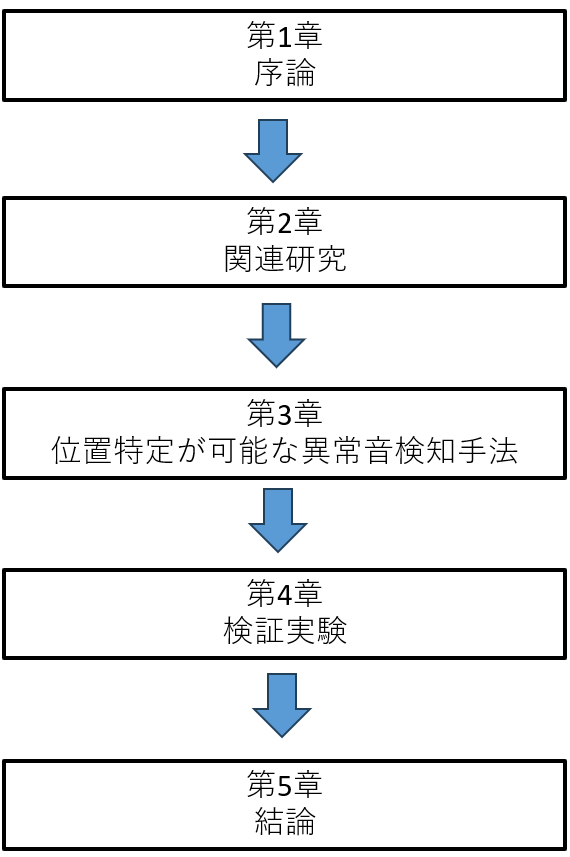
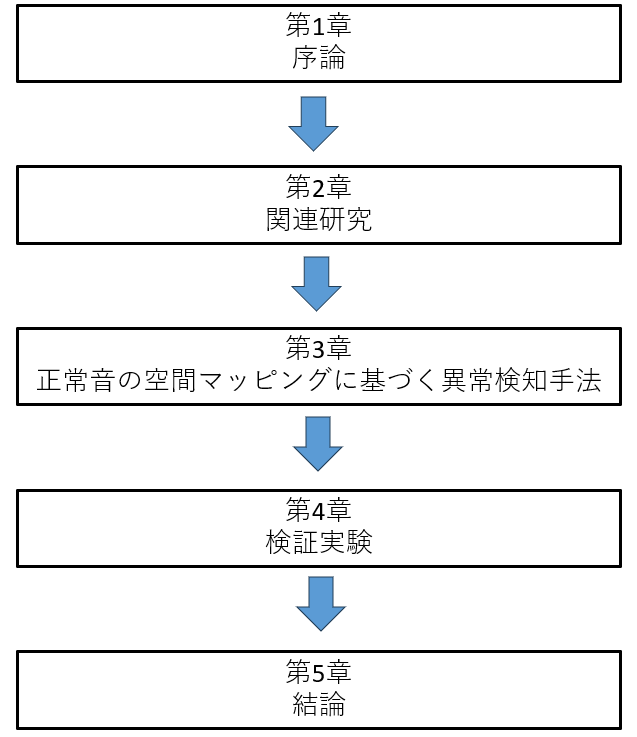
1/1 ongoing

Changed region(s): [[0.0, 0.0, 1.0, 0.9986], [0.9544, 0.6554, 1.0, 0.7802], [0.0, 0.6554, 0.0298, 0.7802]]

diff --git a/sections/chap4_sec3.tex b/sections/chap4_sec3.tex
@@ -6,21 +6,40 @@
 
 \section{屋外実験}
 \label{sec:outdoor_experiment}
-本研究では，実験室内での実験に加え，実際の石油精製施設内においても提案手法の性能を検証した．
-本節では，実験環境の概要，実験手法，データの処理方法，得られた結果，そしてそれらに基づく考察について順に述べる．
+本研究では，実験室内での評価に加え，より実環境に近い条件下で提案手法の性能を検証するため，石油精製プラント内での屋外実験を実施した．
+以下では，実験環境の概要，実験手法，データの処理方法，得られた結果，そしてそれらに基づく考察について順に述べる．
 \subsection{実験環境}
 \label{subsec:vexp_ci_environment}
-実験は，石油精製プラントの稼働エリアの一角で実施された．このエリアには，連続的に作動するポンプ類や，
+実験は，\reffig{fig:field_environment}に示す石油精製プラントの稼働エリアの一角で実施した．
+このエリアには，連続的に作動するポンプ類や定期的に圧力を放出するバルブ類など，複数の騒音源が点在している．
 定期的に圧力を放出するバルブ類が点在している．作業日当日もプラント全体が通常稼働中であり，背景騒音は実験室よりも格段に大きい環境であった．
-また，足場や配管が立体的に入り組んでおり，音の反射や回折が多方向から生じやすく，音源の定位が困難となる複雑な空間が形成されていた．
+
+\begin{figure}[t]
+  \centering
+  \includegraphics[keepaspectratio, width=1.0\linewidth]{chap4/field_environment.png}
+  \caption{屋外実験における実験環境}
+  \label{fig:field_environment}
+\end{figure}
+
 \subsection{実験方法}
 \label{subsec:vexp_ci_method}
+プラント内を走行する移動ロボットに音声収録用のマイクと信号処理装置を搭載し，走行経路上の音データを取得した．
+まず，異常音源を配置しない状態で複数回走行し，プラントが正常稼働中の音を「正常サンプル」として収集した．
+次に，異常音を模擬するため，インパクトドライバと金属棒の打撃装置をプラント内の2箇所に設置し，位置を切り替えながら追加の走行を行った．
 
-まず，異常音源を一切配置しない状態で走行を複数回行い，正常運転時の騒音環境下におけるサンプルを収集した．
-次に，異常を再現するための音源として，インパクトドライバと金属棒を定期的に打撃する装置を，プラント内の2箇所にそれぞれ配置し，
-それらの位置を切り替えながら追加の走行を行った．
-こうすることで，異なる位置で発生する異常音を検知できるかを評価すると同時に，
-機器の連続作動音（インパクトドライバ）と間欠動作音（金属棒打撃）という異なる特性を持つ異常音を検知できるかを評価した．
+\subsubsection{移動ロボットの自己位置推定}
+移動ロボットの車輪にエンコーダを取り付け，それらのエンコーダから得られる回転角度の情報を用いてオドメトリを計算した．
+具体的には，ロボットの左右の車輪の回転角度差から回転角と回転半径を求めることができ，これらの情報から微小時刻$\Delta t$におけるロボットの位置と姿勢の変化を算出することができる．
+これを$\Delta t$ごとに積算することで，ロボットの現在位置を推定した．
+
+\subsubsection{異常音の再現手法}
+異常音としては，インパクトドライバによる連続的な衝撃音と，金属棒を打ち鳴らす周期的な打撃音を用いた．
+これら2種類の音源を\reffig{fig:field_environment}に示す地点Aと地点Bに配置し，それぞれの配置を切り替えながら走行実験を実施した．
+こうすることで，連続的な衝撃音（インパクトドライバ）と間欠的な打撃音（金属棒）という異なる種類の異常を再現した．
+また，打撃音は１分間に２４０回のペースで２本の金属棒を打ち付けあうことで，異常音を再現した．
+正常時の走行を3回，異常音源が存在する状態の走行を2回実施した．\reftab{tab:abnormal_sound_jp}に各パスにおける異常音源を示す．
+このとき，プラントが通常稼働状態であるため，背景騒音にはポンプやバルブなど多種多様な音が混在している．
+
 
 \begin{table}[htbp]
   \centering
@@ -36,26 +55,18 @@
 
 \subsection{データの処理}
 \label{subsec:vexp_ci_processing}
-得られた音声信号は，実験室での評価時と同様に，まず48kHzのサンプリングレートで録音された後，前処理としてノイズ除去フィルタや正規化などの基本的な信号処理を施した．
-続いて，短時間フーリエ変換を用いてパワースペクトルを抽出したのち，メルフィルタバンクを用いてスペクトログラムに変換し，
-特徴量を抽出した．
-なお，正常走行から得られたサンプルの一部をモデルの学習に用い，残りの正常サンプルと異常サンプルをテスト用として用いた．
+取得した音声信号は，実験室での評価時と同様に48kHzのサンプリングレートで録音した．
+まず，ノイズ除去や正規化などの基本的な前処理を行い，続いて短時間フーリエ変換によってスペクトログラムを得た．
+メルフィルタバンクを用いることで周波数帯域を圧縮し，特徴量次元を削減した．
+正常走行で収集したサンプルのうち一部を学習用データとし，残りの正常サンプルと異常サンプルを用いて提案手法をテストした．
 
 \subsection{実験結果}
 \label{subsec:vexp_ci_result}
-屋外実験の結果，異常音源が設置されていない走行では，殆どのサンプルが正常音として正しく分類された．
-一方，インパクトドライバや金属棒による定期的な打撃音が発生している走行では，これらの音源が存在する一付近のサンプルにおいて，
-異常と判断される割合が顕著に増加した．
-特に，インパクトドライバのような連続した衝撃音は，その周囲一体で一貫して異常判定を引き起こす傾向が見られたのに対し，
-金属棒をたたく音は打撃が行われる時間帯のみ断続的に異常として認識された．
-
-\begin{figure}[t]
-  \centering
-  \includegraphics[keepaspectratio, width=1.0\linewidth]{chap4/field_environment.png}
-  \caption{屋外実験における実験環境}
-  \label{fig:field_environment}
-\end{figure}
-
+屋外環境での実験結果を\reffig{fig:field_normal}，\reffig{fig:field_abnormal1}，および\reffig{fig:field_abnormal}に示す．
+異常音源を設置していない走行時は，ほとんどのサンプルが正常音として正しく分類された．
+一方，インパクトドライバや金属棒打撃装置が作動している走行時は，音源付近で異常として判定されるサンプルが明確に増加した．
+インパクトドライバのように連続的な衝撃音を発する機器では，周辺エリアのサンプルが一貫して高い異常判定率を示した．
+金属棒打撃のような間欠的な音源の場合は，打撃が行われるタイミングで局所的に異常判定が発生する傾向が観察された．
 \begin{figure}[t]
   \centering
   \includegraphics[keepaspectratio, width=0.7\linewidth]{chap4/field_normal.png}
@@ -82,7 +93,18 @@
 
 \subsection{考察}
 
-屋外実験においても，提案手法が異常音の検知に有効であることが示された．
+屋外実験の結果，プラント内の大きな背景騒音下においても，提案手法が異常音を検出できることが示唆された．
+\reffig{fig:field_normal}からわかるように，異常音源を設置していない走行時は，ほとんどのフレームにおいて，正常音として正しく分類された．
+このことから，提案手法が背景騒音が非常に大きい環境においても正常音のマッピングを適切に行っていることがわかる．
+しかし，\reffig{fig:field_normal}では，正常な音を異常として判定する偽陽性が確認できる．
+この原因として移動ロボットの走行音が挙げられる．
+屋内実験では移動ロボットに凹凸の少ない地面を走行させたが，屋外実験ではアスファルトのような凹凸の大きい環境での走行となった．
+このため，ロボットの走行音が大きくなり，学習データ，テストデータ共に正常音が不安定となってしまったことが原因として考えられる．
+移動ロボットの走行音を除去することで，正常音の予測の精度向上と，偽陽性を減らしていくことが今後の課題の一つである．
 
+一方で，\reffig{fig:field_abnormal1}および\reffig{fig:field_abnormal}を確認すると，間欠的な金属棒の打撃音の付近では，局所的に異常が観測されていることが分かる．
+この結果から，金属棒の打撃と対応しているフレームのみが異常として判定されていることが考えられる．
+これは異常音のエネルギーを決定する要因に距離以外のフレームと間欠的な音という別の要因が加わってしまうことを示唆しており，異常音が間欠的な特徴を持つ場合異常の位置推定が失敗することが考えられる．
+このため，間欠的な異常音に対しても，異常の位置推定を可能とするような手法の開発が今後の課題となる．
 
 \end{document}

diff --git a/sections/chap4_sec2.tex b/sections/chap4_sec2.tex
@@ -54,17 +54,19 @@
 同様に回転機器であり，稼働中に発する音に定常的な特徴を持つギアボックスを音源として用いている．
 
 また，これらのギアボックスは傾けるとギア同士が強く擦れ合って研削音を生じるため，異常音を発生させることが可能である．
+\subsubsection{データの前処理} \label{subsec:data_preprocessing}
+マイクロホンを用いて録音したデータ内の低周波帯において，移動ロボットの振動によるものと思われるノイズが含まれていたため，
+このノイズに対応すると思われる1000Hz未満に対応する周波数帯域を除去した．
+また，メルスペクトログラムへの変換においては，突発的なノイズによる特徴量の不安定化を防ぐために，短時間フーリエ変換に用いるウィンドウ幅を一般に使用されるウィンドウ幅よりもかなり大きい65536サンプルに設定した．
+48kHzで音響信号を取得しているため，これは約1.36秒のウィンドウ幅に相当する．
 \subsection{実験手順} \label{subsec:experiment_procedure}
 
 本実験では，まずすべてのギアボックスを正常に動作させた状態でロボットを走行させ，正常サンプルを収集した．
 続いて，1つのギアボックスを傾けて異常音を発生させ，ロボットを同様に走行させることで異常サンプルを取得している
 異常状態における走行は，異常音源の位置を変えて2回行い，異常音源の位置を推定する際の精度を評価している．
 収集した音声は128の，メルフィルタバンクを用いてメルスペクトログラムに変換し，6層のデコーダ型ニューラルネットワークを用いて学習に用いた．
-
-マイクロホンを用いて録音したデータ内の低周波帯において，移動ロボットの振動によるものと思われるノイズが含まれていたため，
-このノイズに対応すると思われる1000Hz未満に対応する周波数帯域を除去した．
-このニューラルネットワークは正常時の音響パターンをモデル化し，異常音検知の閾値は手動で設定している．
 その後，異常状態のデータを用いて検出精度や音源の推定精度を評価した．
+
 
 \subsection{実験結果} \label{subsec:vexp_ref_result}
 
@@ -79,7 +81,7 @@
   \label{fig:comparison_pre_mel}
 \end{figure}
 
-この図から，それぞれの座標において正常音の特性が大方正しく予測されていることが分かる．
+この図から，周波数領域におけるピークなどの正常音の特徴が正しく予測されていることが分かる．
 また，これらのフレームごとの結果を横軸に結合していくことで，時間ごと特定の環境特性を示すメルスペクトログラムを得ることができる．
 観測された音のメルスペクトログラムと座標に基づいて予測されたメルスペクトログラムを図\ref{fig:observed_mel}と図\ref{fig:predicted_mel}に示す．
 
@@ -96,13 +98,13 @@
   \caption{予測されたメルスペクトログラム}
   \label{fig:predicted_mel}
 \end{figure}
-
+図\ref{fig:observed_mel}と図\ref{fig:predicted_mel}を比較すると，殆ど全てのフレームにおいて，強度の強いメルバンドが一致しており，このことから提案手法が正常音のマッピングを適切に行っていることが分かる．
 
 \subsubsection{異常音の検出} \label{subsubsec:anomaly_detection}
 異常状態の経路は，異常のギアボックスの配置を変え，2種類の経路にて走行した．
 正常状態の経路と，異常音源を設置した経路における予測音との差分エネルギー分布を図\ref{fig:lab_normal}，図\ref{fig:lab_abnormal2}，図\ref{fig:lab_abnormal7}に示す．
 これらの図から，異常音源を設置した付近の座標ではエネルギー値が大きくなり，異常音源から離れるにつれエネルギー値が小さくなることが分かる．
-これらの結果から，提案手法が異常音源を検出することができることが示された．
+これらの結果から，提案手法が異常音を検出することができることが示された．
 
 
 \begin{figure}[t]
@@ -139,7 +141,7 @@
       \toprule
       & 位置1 & 位置2 \\
       \midrule
-      真値 & (0.46, 0.18) & (0.78, 1.50) \\
+      真値 & (0.46, 0.18) & (1.08, 1.50) \\
       提案手法 & (0.55, 0.21) & (1.17, 1.45) \\
       誤差（m） & 0.09 & 0.10 \\
       \bottomrule
@@ -171,11 +173,12 @@
 また，\reffig{fig:lab_abnormal2}と\reffig{fig:lab_abnormal7}を比較すると，エネルギー強度のピークの大きさと，赤くプロットされている経路内お点の数が異なることが分かる．
 これは，位置1では，異常音源がＬ字の経路の曲がり角の内側に存在するため，比較的異常音源に近づくことができ，エネルギー値が大きくなっていることが分かる．
 一方で位置2では，異常音源がＬ字の経路の曲がり角の外側に存在するため，異常音源に近づくことができず，エネルギー値が小さくなっていることが分かる．
-この結果から，提案手法を用いて異常音の検知をする際には，異常と診断される可能性がある機器の配置に応じて正しく経路を設定することが重要であることが示された．
+この結果から，提案手法を用いて異常音の検知をする際には，異常と診断される可能性がある機器の配置に応じて正しく経路を設定することが重要であることが考えられる．
 
 
 最後に，異常音源の位置推定に関する結果について考察を述べる．
 \reftab{tab:sound_localization}に示すように，提案手法による異常音源の位置推定は，真値との誤差が小さく，高い精度で位置推定が行われていることが示された．
-また，\reffig{fig:lab_abnormal2}と\reffig{fig:lab_abnormal7}では，検出されたピークの異常音エネルギーと赤くプロットされている箇所において大きな差が見られたが，位置1と位置2において，異常音源の位置推定精度に大きな差は見られなかった．
-このことから，
+また，\reffig{fig:lab_abnormal2}と\reffig{fig:lab_abnormal7}では，検出されたピークの異常音エネルギーのにおいて差が見られたが，位置1と位置2において，異常音源の位置推定精度に大きな差は見られなかった．
+このことから，提案手法を用いた異常音源の位置推定は，異常音源の位置に対して頑健であることが分かった．これは最適化において異常音のエネルギーの大きさをもとに重み付けをしているため，経路を通じた異常音のエネルギーが小さい場合にも，その経路の中で相対的に大きなエネルギーを持つ点の情報を正しく利用することができているためだと考えられる．
+
 \end{document}

diff --git a/sections/chap2_sec2.tex b/sections/chap2_sec2.tex
@@ -6,8 +6,8 @@
 
 \section{異常検知手法}
 \label{sec:related_work_anomaly}
-異常検知はタスクの特徴に応じて異なるアプローチがとられる．
-本節では，異常検知のタスク設定における分類を述べ，それぞれのタスクに対する異常検知手法を紹介する．
+異常検知にはタスクの設定に応じて様々なアプローチが存在する．
+本節では，それらのアプローチの中でも代表的な手法である教師あり異常検知，教師なし異常検知，ゼロショット学習に基づく異常検知について述べる．
 \subsection{教師あり異常検知}
 異常検知の代表的なアプローチとして教師あり異常検知（Supervised AD）が挙げられる．
 教師あり異常検知では，異常か正常化のラベルが付与されたデータを用いて異常を検出するモデルを学習し，未知のデータが異常か正常かを予測する．
@@ -33,15 +33,5 @@ Jihunらはこのアプローチを採用し，画像をパッチ単位に分割
 この手法に用いられる代表的なモデルとしては，AutoencoderやGenerative Adversarial Networkなどが挙げられる．
 Zavrtanikらは画像の一部を隠して復元するアプローチを導入し，通常のオートエンコーダで問題となる「異常な領域もうまく再現してしまう」課題を解決している\cite{zavrtanik}．
 音響信号への応用例としては，Ohらが自動生成ラインに組み込まれるチップマウンターを対象にオートエンコーダで異常音を検出している\cite{oh}．
-
-
-\subsection{ゼロショット学習}
-上記の教師あり/教師なし以外にも，ゼロショット学習が提案されている．
-ゼロショット学習では，新しいデータや追加学習を行わず，既存の知識を用いて異常を検出する．
-Liらは視覚と言語の統合モデルであるCLIPを活用し，「正常」「異常」といったテキストプロンプトを用いて異常検知を行っている\cite{li}．
-ゼロショット学習を用いることで異常データを学習に使用せずに検出できるが，音源が密集している環境では環境ノイズや重複した音源の影響が大きく，適用が難しいことが考えられる．
-
-
-以上を考慮すると，プラント環境のような音源が密集している環境下かつ，異常音源が取得することが困難である場合には，教師なし異常検知が有効であり，本研究でも教師なし異常検知をアプローチとして用いる．
 
 \end{document}

diff --git a/sections/chap5_sec2.tex b/sections/chap5_sec2.tex
@@ -4,8 +4,9 @@
 \section{今後の展望}
 \label{sec:conc_future}
 屋外実験において，正常状態の経路に対しても異常と出力されてしまう偽陽性が多く見られた．
-異常検知の分野においては，偽陽性よりも偽陰性が重大であるとされることが多いが，
-正常音の予測の精度を高めることで，偽陽性を減らしていくことが今後の課題の1つとして考えられる．
+一般に異常検知の分野においては，偽陽性よりも偽陰性が重大であるとされることが多い．
+一方で偽陽性が多い場合，運用者は異常と判断された箇所を確認するために多大な労力を費やすことになる．
+そのため正常音の予測の精度を高めることで，偽陽性を減らしていくことが今後の課題の1つとして考えられる．
 また，本手法では位置推定の段階において異常音源が1つしかないことを前提としている．
 稼働中の製油所では異常が極めてまれであるため，この前提は必ずしも厳しい制約になるとは限らないが，異常が頻繁に発生する可能性がある状況では，
 複数の異常音源を推定できることも望まれる．

diff --git a/sections/achieve.tex b/sections/achieve.tex
@@ -13,12 +13,12 @@
 
 % textlint-disable
 
-\section*{国内会議}
+\section*{査読あり学術論文}
 \leavevmode \\
 
 
 \begin{enumerate}
-  \item Jun Younes Louhi Kasahara, Kentaro Tanaka, Koki Shoda, Masayoshi Kinoshita, Seiji Kasahara, Hiroyuki Ito, Risa Koda, Sunao Tamura, Hirokazu Tanaka, Toshiya Kato, Fumihiko Nonaka, Shinji Kanda, Keiji Nagatani, Hajime Asama, Qi An, and Atsushi Yamashita: ``Abnormal Sound Source Detection and Localization by Spatial Mapping of Normal Sounds for Robotic Inspection in Oil Refineries,'' \textit{Int. J. of Automation Technology}, Vol.~00, No.~0, 0000（査読申請中）．\\
+  \item Jun Younes Louhi Kasahara, Kentaro Tanaka, Koki Shoda, Masayoshi Kinoshita, Seiji Kasahara, Hiroyuki Ito, Risa Koda, Sunao Tamura, Hirokazu Tanaka, Toshiya Kato, Fumihiko Nonaka, Shinji Kanda, Keiji Nagatani, Hajime Asama, Qi An, and Atsushi Yamashita: ``Abnormal Sound Source Detection and Localization by Spatial Mapping of Normal Sounds for Robotic Inspection in Oil Refineries,'' \textit{Int. J. of Automation Technology}（査読中）．\\
 \end{enumerate}
 
 

diff --git a/sections/chap3_sec3.tex b/sections/chap3_sec3.tex
@@ -10,7 +10,7 @@
 
 本研究では，これらの課題の解決を目的とし，以下のアプローチを採用する．
 第一に，正常音を予測し，異常音を予測した正常音と観測音との差としてとらえることで，異常音に関する事前知識を必要とせず，汎用的に異常音を抽出する．
-第二に，各地点での異常音の大きさを関連付け，これらの情報と音の大きさが空間的に減衰する性質を基に異常の発生場所を推定する．
+第二に，各地点での異常音の大きさと座標を関連付け，これらの情報と音の大きさが空間的に減衰する性質を基に異常の発生場所を推定する．
 
 
 次にこれらのアプローチを実現するための提案手法について述べる．

diff --git a/sections/chap3_sec7.tex b/sections/chap3_sec7.tex
@@ -18,7 +18,7 @@
     \label{eq:distance}
 \end{equation}
 
-この式を用いることで，以下のような座標と各座標における異常音源までの距離の集合を得ることができる．
+この式を用いることで，以下のような座標と各座標における異常音源までの距離の集合$S$を得ることができる．
 \begin{equation}
     S = \{ (\mathbf{p}_i, \, d(\mathbf{p}_i,\mathbf{p}_a)) \}.
 \end{equation}

diff --git a/sections/chap3_sec4.tex b/sections/chap3_sec4.tex
@@ -37,7 +37,7 @@
 音源 \(i\) から発せられる定常的な音響信号を \(\mathbf{s_i}\) とすると，観測点 \(\mathbf{p}\) での総受信音信号 \(Y(\mathbf{p})\) は以下のように表される．
 
 \begin{equation}
-  Y(\mathbf{p}) = \sum_{i=1}^{N} a\bigl(d(\mathbf{p}, \mathbf{q}_i)\bigr) \, s_i.
+  Y(\mathbf{p}) = \sum_{i=1}^{N} a\bigl(d(\mathbf{p}, \mathbf{q}_i)\bigr) \, \mathbf{s_i}.
 \end{equation}
 
 
